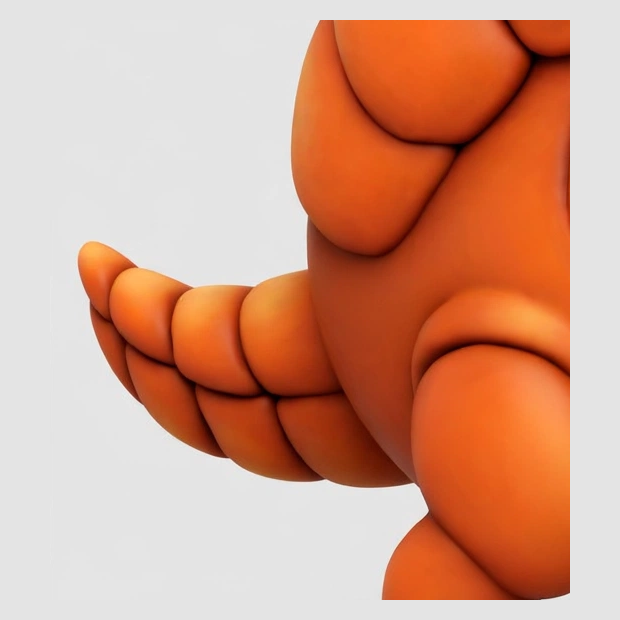
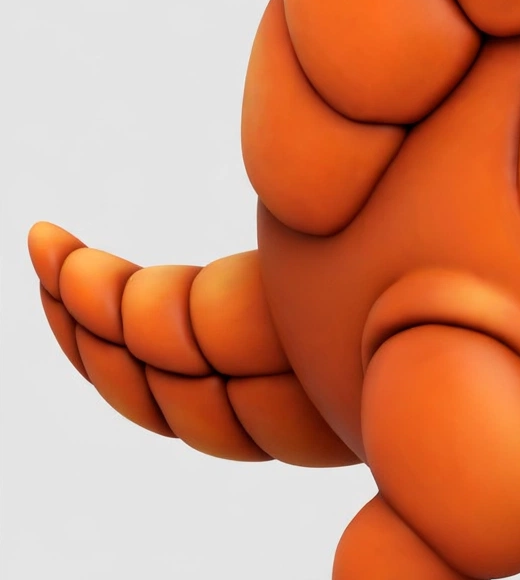
STEP-1 FINAL: tail candidates are bare reference crops (no padding, zero generated pixels); standing by for owner pick

diff --git a/benchmarks/eden-aliens-b-20261022/element-log.md b/benchmarks/eden-aliens-b-20261022/element-log.md
@@ -141,3 +141,6 @@ All three: source = pack aliens-b-3d-reference.png (1840×1168), **reference pix
 | generated/gen-tail2-cand-01.png | (0,600,355,920) — tight: whole tail + thin rear-body margin, stopping just before the hind-leg pad | 395² / (20,37) | Cleanest tail read with no leg occlusion. The transition margin is thin and the body is hard-cut at the right/top edges (melt/wall risk, in the discard zone). |
 | generated/gen-tail2-cand-02.png | (0,560,420,960) — medium: tail + root transition + more rear body | 460² / (20,30) | **My pick:** the most root transition in frame. The hind-leg shoulder pad intrudes at the lower right (attached-anatomy risk); body hard-cut at the right edge. |
 | generated/gen-tail2-cand-03.png | (0,420,520,1000) — wide: adds the plate overhang above the root and the hind-leg pad/leg | 620² / (50,20) | Most context, but the leg and plate overhang occlude/compete with the root and would likely fuse into the element. |
+
+## STEP 1 FINAL FORM (owner 20:58: strike the margins clause; zero generated pixels and no canvas extension)
+gen-tail2-cand-01/02/03.png are re-saved as **bare crop rectangles**: identical reference pixels, no padding. Boxes are unchanged: 01 (0,600,355,920) 355×320 · 02 (0,560,420,960) 420×400 · 03 (0,420,520,1000) 520×580. Squaring/padding and any background flattening move to the separately gated PREP step. Verdicts unchanged (pick: cand-02; concerns as in STATUS).

diff --git a/benchmarks/eden-aliens-b-20261022/STATUS.md b/benchmarks/eden-aliens-b-20261022/STATUS.md
@@ -27,3 +27,6 @@ Candidates pushed: generated/gen-tail2-cand-01/02/03.png. Element-log entry per 
   3. The hind-leg shoulder pad overlaps the lower root in any window wider than cand-01.
   - Possible mitigations, for the owner to choose: (a) mask the leg out at prep; (b) outpaint only the cut body margin, keeping tail pixels untouched (flagged regions); (c) use cand-01 and accept a thinner transition.
 - No masking, Hunyuan or stitching done in this step.
+
+## 21:24 CDT — STEP 1 FINAL FORM → STANDING BY
+Candidates are now pure crops: bare reference rectangles with zero generated pixels and no padding. The mitigation list in my 21:20 note is reduced to non-generative options only: (a) mask/flatten the leg and background at PREP, or (c) use cand-01. Option (b), outpainting, is struck by owner ruling.
